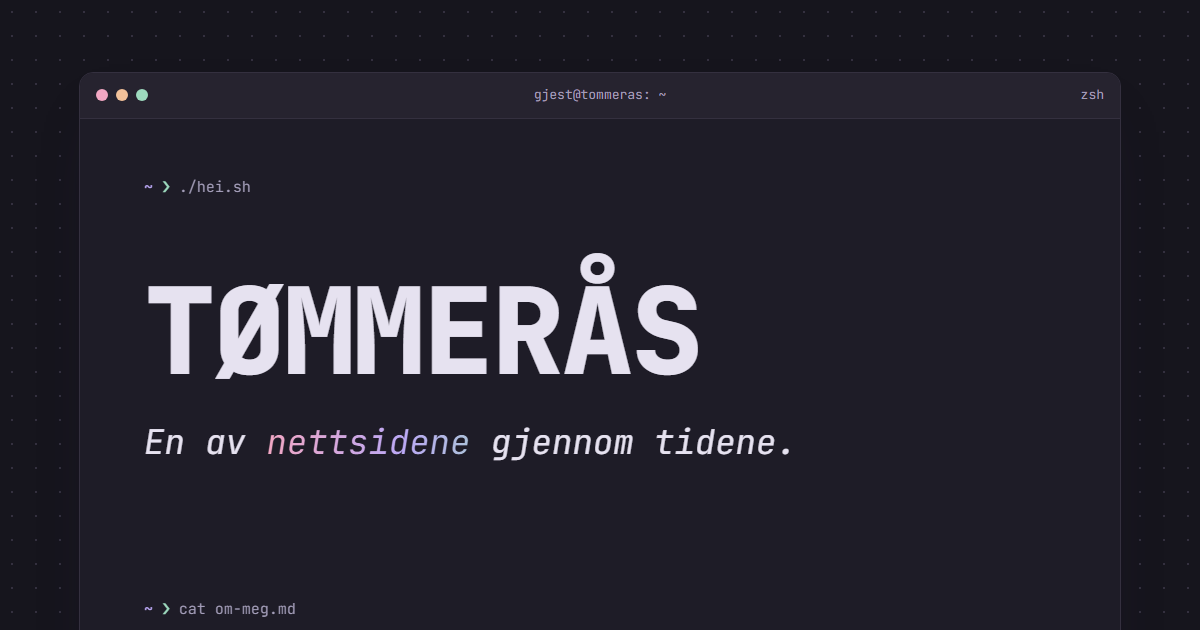
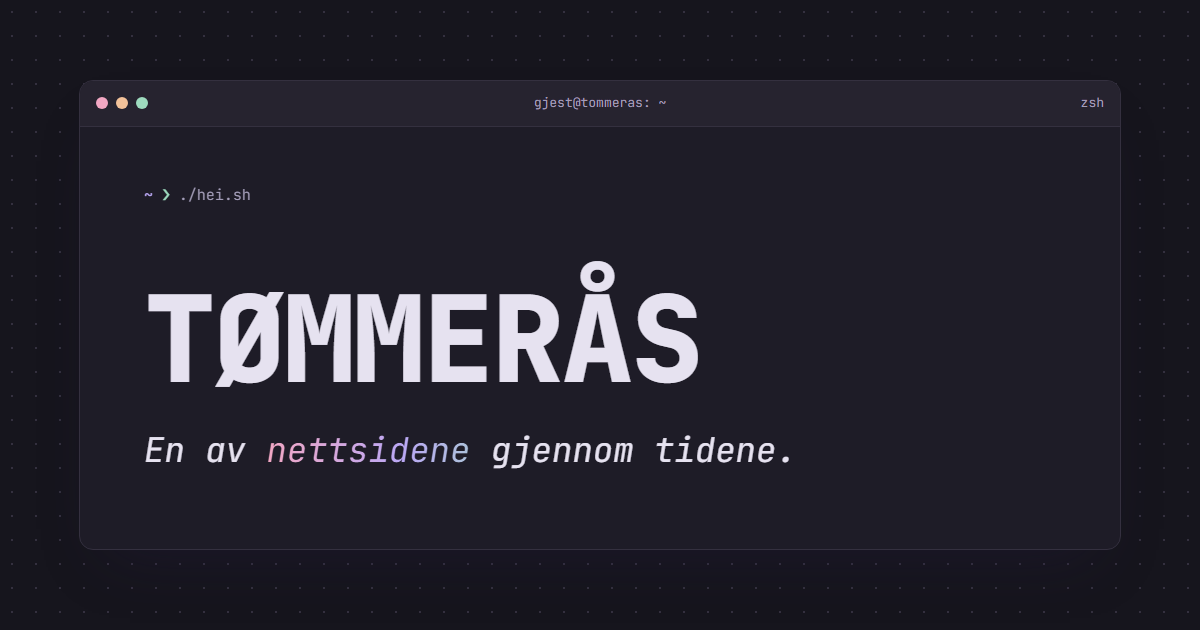
feat: frame the social card as a whole window
The card used to cut off at the fold, with a stray `cat om-meg.md` prompt
at the bottom edge. The script now hides everything after the hero and
centers the window, so the whole window shows with its border and shadow.

diff --git a/scripts/social-card.ts b/scripts/social-card.ts
@@ -9,8 +9,20 @@ const page = await browser.newPage({
   viewport: { width: 1200, height: 630 },
   colorScheme: 'dark',
   reducedMotion: 'reduce',
+  // The site's CSP would block the style below
+  bypassCSP: true,
 });
 await page.goto('https://tommeras.no', { waitUntil: 'networkidle' });
+// Keeps only ./hei.sh and the hero, and centers the window, so it ends inside the image instead of at the fold.
+// !important beats Astro's scoped styles, which are more specific.
+await page.addStyleTag({
+  content: `
+    main > section, .prompt-end, vercel-analytics { display: none !important; }
+    main { padding-bottom: 0 !important; }
+    body { display: grid; place-items: center; min-height: 100vh; }
+    .window { margin: 0 !important; }
+  `,
+});
 await page.evaluate(() => document.fonts.ready);
 await page.screenshot({ path: 'public/social-card.png' });
 await browser.close();
